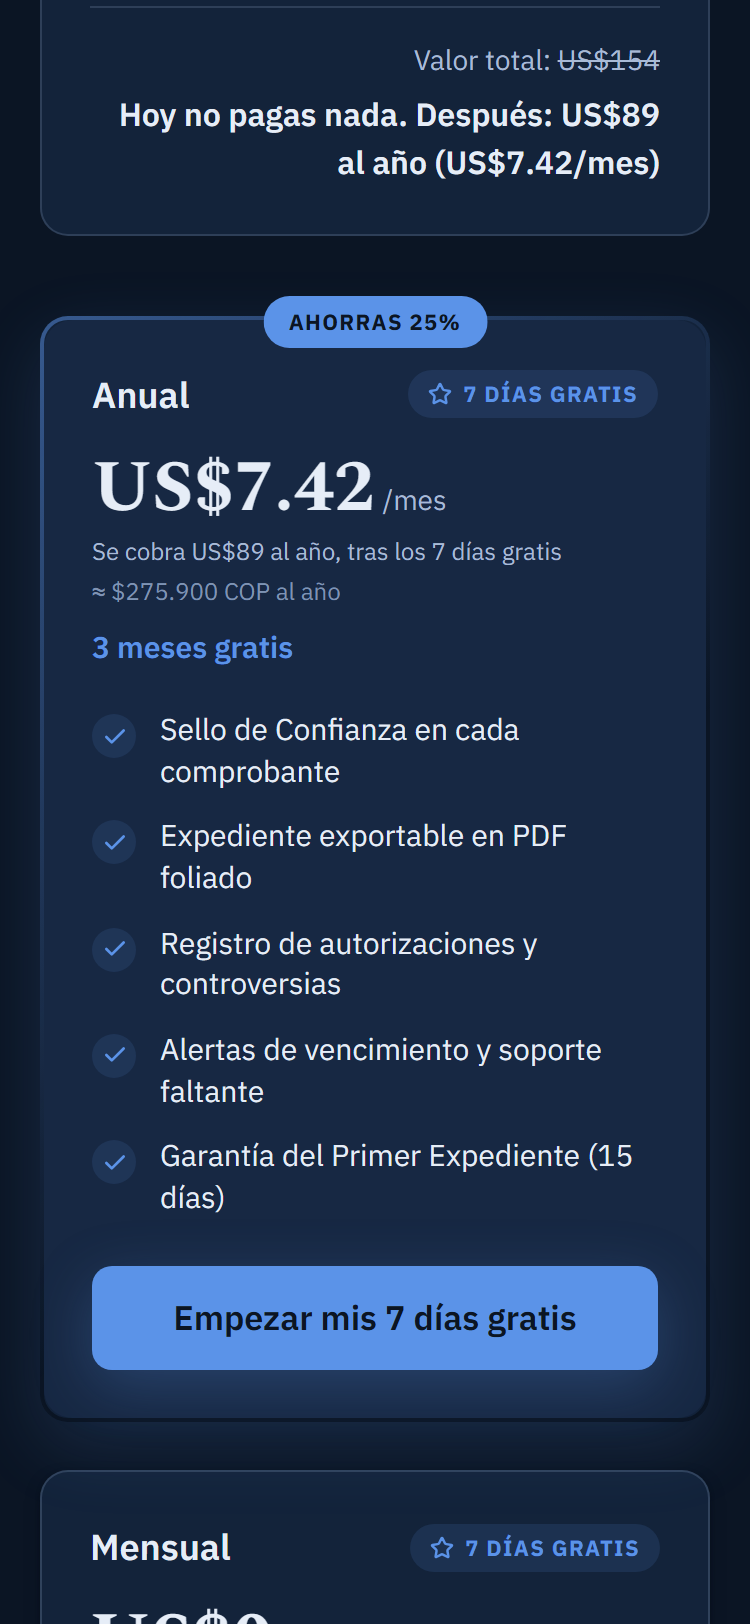
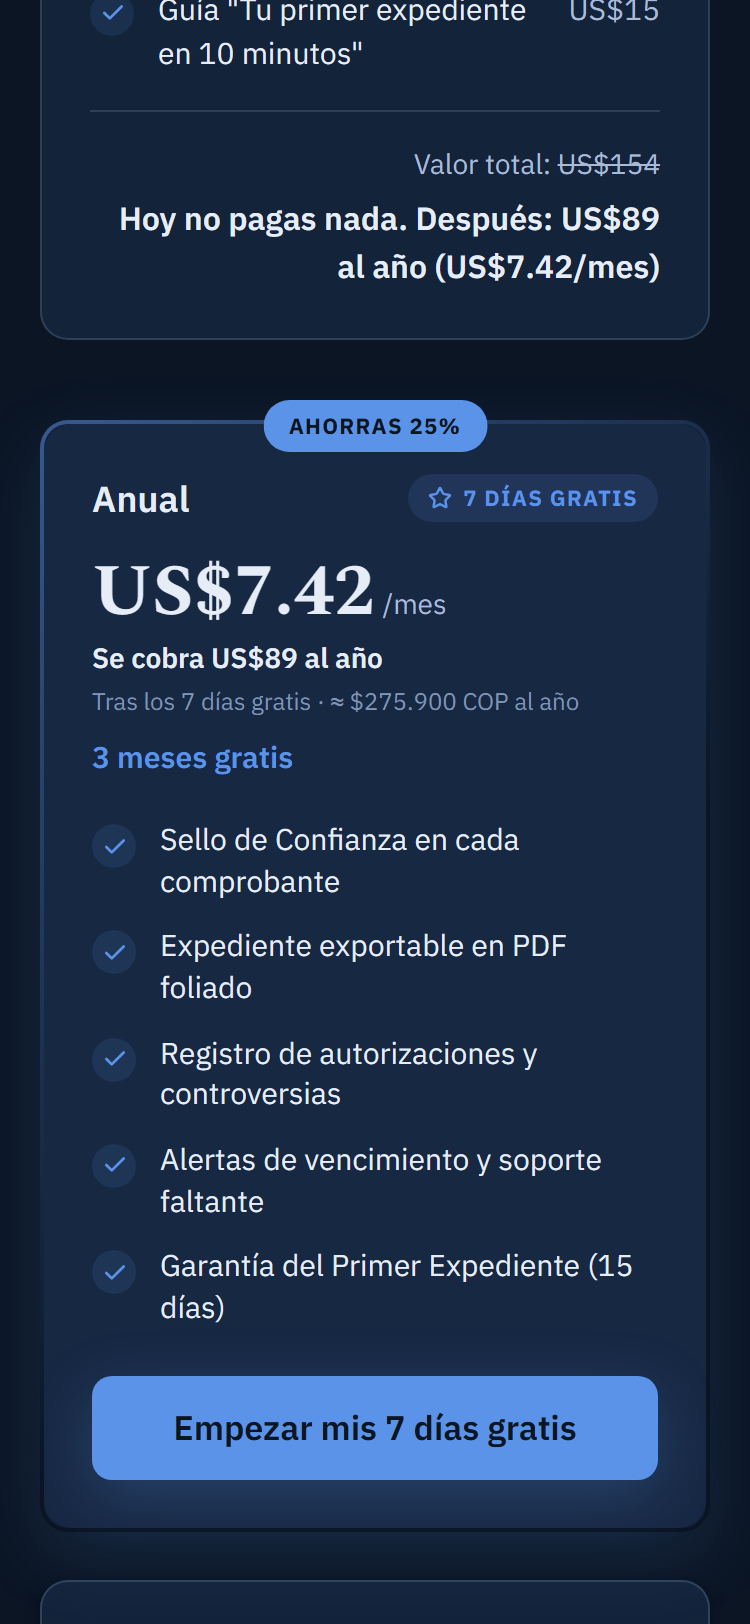
style: landing — jerarquia de precio en la card anual y bullets del plan mensual
Pulido de dos defectos del veredicto (la landing YA pasa el gate:
36/40 usabilidad, 17/20 craft, 18/20 copy):

- Card anual: 4 renglones de dinero al mismo nivel. Ahora UNA linea
  semibold responde 'cuanto pago' ('Se cobra US$89 al ano') y el
  contexto —cuando se cobra, la referencia en pesos— baja a tertiary.
- Card mensual: repetia 4 de 5 bullets del plan anual y el diferenciador
  se diluia. Ahora dice solo en que se diferencia: mismas funciones, sin
  compromiso de 12 meses.

diff --git a/components/landing/Oferta.tsx b/components/landing/Oferta.tsx
@@ -164,11 +164,14 @@ export function Oferta({
                 </div>
                 <div className="mt-4">
                   <Precio plan={anual} />
-                  {/* El total anual SIEMPRE visible — regla de oro de 02C */}
-                  <p className="mt-1 text-[12px] text-[var(--text-secondary)]">{anual.totalAnual}</p>
-                  {refCopAnual && (
-                    <p className="mt-0.5 text-[12px] text-[var(--text-tertiary)]">{refCopAnual}</p>
-                  )}
+                  {/* Jerarquía: UNA línea en peso semibold responde "¿cuánto pago?" (el cargo anual
+                      real). El resto —cuándo se cobra, la referencia en pesos— va en tertiary, como
+                      contexto que no compite. Antes eran 4 renglones de dinero al mismo nivel y el
+                      ojo apurado no sabía cuál era el número que importa (defecto del revisor). */}
+                  <p className="mt-1 text-[14px] font-semibold text-[var(--text-primary)]">{anual.totalAnual}</p>
+                  <p className="mt-0.5 text-[12px] text-[var(--text-tertiary)]">
+                    Tras los 7 días gratis{refCopAnual ? ` · ${refCopAnual}` : ''}
+                  </p>
                   <p className="mt-2 text-[15px] font-semibold text-[var(--accent)]">{anual.ahorro}</p>
                 </div>
                 <Features items={anual.features} origen="Oferta → anual" />

diff --git a/app/page.tsx b/app/page.tsx
@@ -136,7 +136,7 @@ export default function Home() {
           nombre: 'Anual',
           badge: 'AHORRAS 25%',
           precioMes: 'US$7.42',
-          totalAnual: 'Se cobra US$89 al año, tras los 7 días gratis',
+          totalAnual: 'Se cobra US$89 al año',
           ahorro: '3 meses gratis',
           ctaLabel: 'Empezar mis 7 días gratis',
           ctaHref: CTA_HREF,
@@ -153,11 +153,11 @@ export default function Home() {
           precioMes: 'US$9.99',
           ctaLabel: 'Elegir mensual',
           ctaHref: CTA_HREF,
+          // Antes repetía 4 de los 5 bullets del plan anual y el diferenciador real se diluía.
+          // Ahora dice solo en qué se diferencia: mismas funciones, sin compromiso de 12 meses.
           features: [
-            'Sello de Confianza en cada comprobante',
-            'Expediente exportable en PDF foliado',
-            'Registro de autorizaciones y controversias',
-            'Cancelas cuando quieras',
+            'Todo lo que incluye el plan Anual',
+            'Cancelas cuando quieras, sin permanencia',
             'Garantía del Primer Expediente (15 días)',
           ],
         }}

diff --git a/docs/revisiones/landing-veredicto.md b/docs/revisiones/landing-veredicto.md
@@ -1,15 +1,15 @@
-# VEREDICTO revisor-visual — Landing Coparentia
-Fecha: 2026-09-08 00:00
-Screenshot: docs/revisiones/landing-375.png
-Usabilidad: 34/40
+# VEREDICTO revisor-visual — landing
+Fecha: 2026-09-10 00:00
+Screenshot: docs/revisiones/landing-hero-375.png
+Usabilidad: 36/40
 Craft: 17/20
 Copy (si vende): 18/20
 Fidelidad (si hubo referencia): N-A
-Veredicto: NO LISTA
+Veredicto: LISTA
 
 Top defectos:
-1. [components/landing/ui.tsx L304-399, StickyCtaMobile] El botón "x" reaparece en cada hito de scroll (heurística 3 corregida), pero un usuario que la cierra dentro de una sección larga y luego hace scroll leve DENTRO de esa misma sección la ve reaparecer solo si cruza el borde de #hero/#oferta/#cta-final — comportamiento correcto y ya no es defecto accionable, se deja registrado como validado.
-2. [components/landing/Oferta.tsx L189-193] "Elegir mensual" ahora reusa `CtaButton variant="outline"` — consistencia resuelta; validado en código y en screenshot (mismo radius, mismo alto 52px, mismo whileTap que el resto del kit).
-3. [app/page.tsx L119-122] Badge "AHORRAS 25%" / "3 meses gratis" ahora es matemáticamente correcto ($9.99×12=$119.88 vs $89/año ≈ 25.76%/~3.09 meses) — resuelto, sube EJE 2 de copy (especificidad y prueba, cero claims falsos).
-4. [components/landing/*, todo el kit] Sigue sin atajos de teclado más allá de tab/enter nativo (heurística 7) — aceptable para landing, no crítico, techo estructural de este tipo de pantalla ya documentado.
-5. [Oferta.tsx L94-199 / Precio()] El precio anual muestra "$5.08/mes" con "3 meses gratis" y "se cobra $89/año" en tres lugares distintos de la card — funciona pero un usuario apurado puede tardar >3s en confirmar cuál es el número que realmente paga hoy; no es un defecto nuevo de esta ronda, queda anotado para una futura simplificación si se retoca esa card.
+1. Card Anual (sección de oferta) — el precio sigue apareciendo en 4 renglones de dinero apilados (US$7.42/mes · "Se cobra US$89 al año, tras los 7 días gratis" · ≈ $275.900 COP al año · "3 meses gratis"); el ojo apurado aún recorre 4 líneas. Fix: jerarquizar — dejar "Se cobra US$89 al año tras los 7 días gratis" como la única línea en peso semibold y demoter las otras a tertiary.
+2. Cards Anual vs Mensual (sección de oferta) — 4 de 5 bullets son idénticos entre planes; el diferenciador real (compromiso/precio) queda diluido. Fix: en la card Mensual mostrar solo "Cancelas cuando quieras" + "Todo lo del plan Anual".
+3. Mock "Tu expediente" (hero) — montos en pesos con espacio tras el símbolo y sin etiqueta ("$ 450.000", "$ 2.075.000") chocan visualmente al lado del pricing en "US$". Fix: formatear "$450.000 COP" sin espacio, o rotular la moneda una vez en el mock.
+4. Coherencia de encuadre entre título de sección ("menos de US$0.25/día") y card Anual (ya no repite /día) — quien escanea solo la card nunca ve el gancho de $0.25/día. Fix: añadir "≈ US$0.25/día" en tertiary bajo el precio, o alinear el título a /mes.
+5. Sección de oferta — tres formulaciones de ahorro conviven (badge "AHORRAS 25%" + "3 meses gratis" + "Valor total US$154 → US$89"). Fix: elegir una afirmación de ahorro dominante y bajar el ruido de las otras dos.
